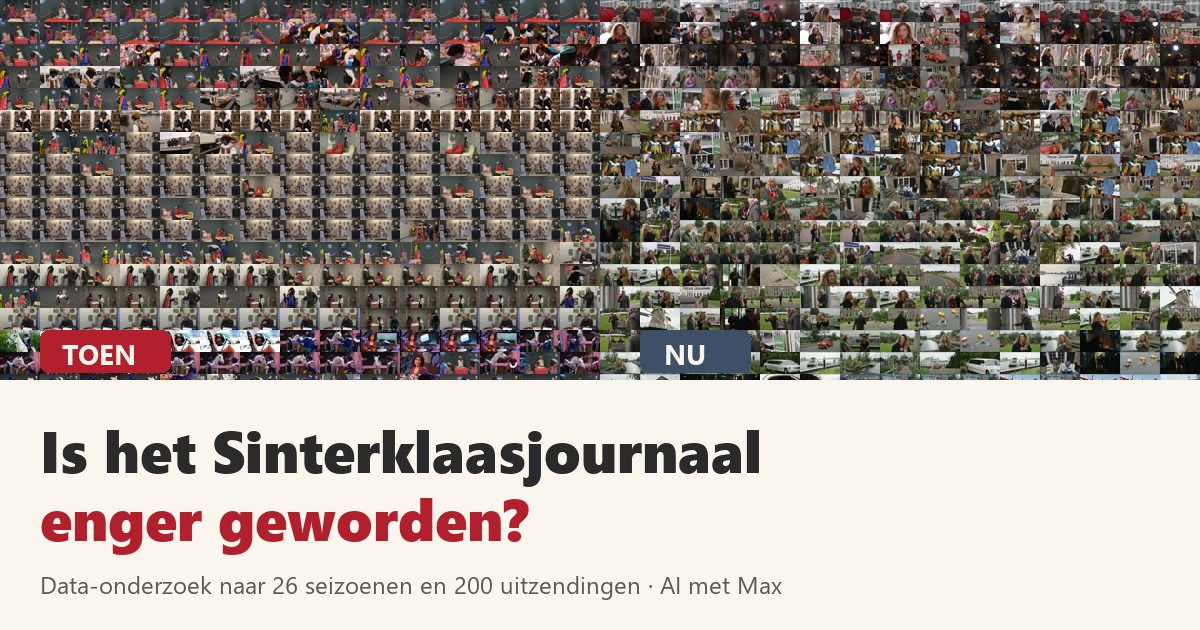
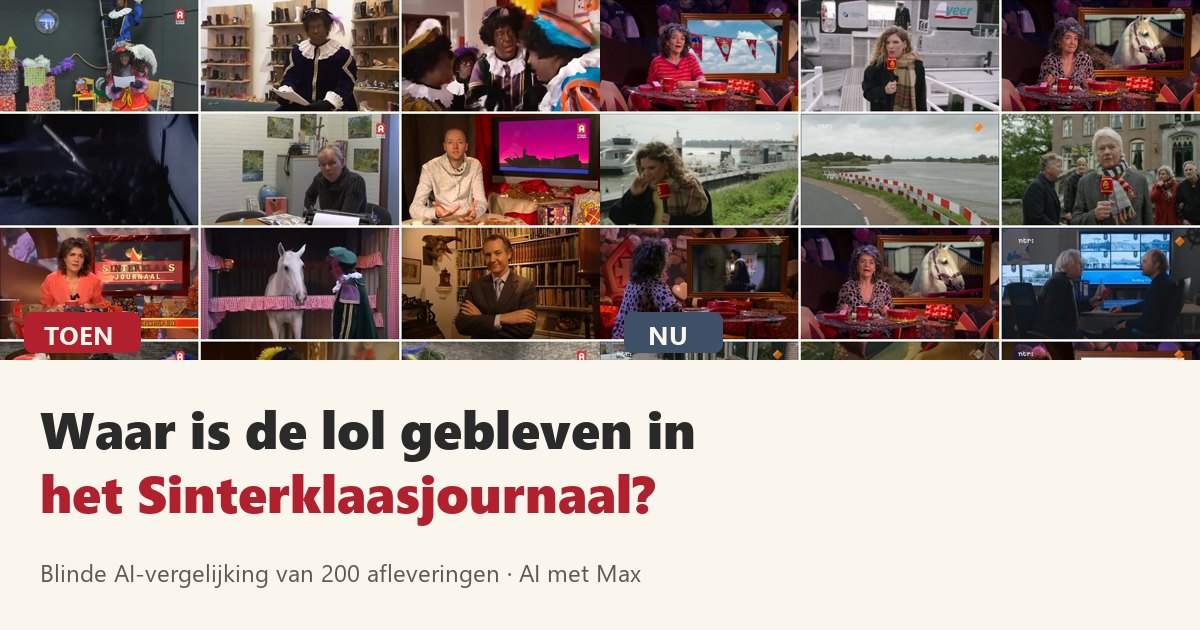
Sinterklaasjournaal: definitieve versie, kop "Waar is de lol gebleven?"
Blinde vergelijking met twee modellen (Haiku en DeepSeek, 2.360 oordelen),
2026 als lopend seizoen, beeldanalyse op elke seconde met willekeurige
steekproef, bijgewerkte methodepagina en nieuwe deelafbeelding.

diff --git a/src/app/onderzoek/sinterklaasjournaal/article-html.ts b/src/app/onderzoek/sinterklaasjournaal/article-html.ts
@@ -1,2 +1,2 @@
 // Generated from the article build. Edit the source, not this file.
-export const ARTICLE_HTML = "<div class=\"col sj-head\">\n  <div class=\"letters\" aria-hidden=\"true\"><span>S</span><span>?</span></div>\n  <p class=\"kicker\">Data-onderzoek · Sinterklaasjournaal 2013-2026</p>\n  <h1>Is het Sinterklaasjournaal enger geworden?</h1>\n  <p class=\"dek\">Ik liet AI 200 afleveringen blind met elkaar vergelijken, zonder dat het wist uit welk jaar ze kwamen. De uitkomst: ja. Vooral vorig jaar was het programma enger en minder luchtig dan alles daarvoor.</p>\n  <p class=\"byline\">Max van den Broek · november 2026 · leestijd 7 minuten</p>\n</div>\n\n<div class=\"wide pair hook\">\n  <figure><div class=\"era toen\">Toen · 2009</div><img src=\"/onderzoek/sinterklaasjournaal/gifs/2009-quiz-dakpan.gif\" alt=\"Pieten doen een quiz: met welke pan kun je geen ei bakken? Met een dakpan (2009)\" width=\"440\" height=\"334\"><figcaption>Aflevering 17 van 2009 opent met een pietenquiz.</figcaption></figure>\n  <figure><div class=\"era nu\">Nu · 2024</div><img src=\"/onderzoek/sinterklaasjournaal/gifs/2024-ligt-stil.gif\" alt=\"Einde van aflevering 2 in 2024: de stoomboot ligt weer stil voor een brug\" width=\"440\" height=\"334\"><figcaption>Aflevering 2 van 2024 eindigt, net als aflevering 1, met een stilliggende stoomboot.</figcaption></figure>\n</div>\n\n<div class=\"sj-main\">\n<section class=\"col\">\n  <p class=\"note\">De fragmenten van vóór 2019 zijn gemaakt toen pieten nog zwart geschminkt waren. Ze staan hier als historisch beeldmateriaal.</p>\n\n  <p>Dit jaar keek ik voor het eerst sinds mijn kindertijd weer naar het Sinterklaasjournaal. Ik schrok ervan. Het voelde veel spannender en negatiever dan ik me herinnerde. Maar toen het programma in 2001 begon was ik zelf nog een kind, dus misschien herinner ik het me gewoon niet goed.</p>\n  <p>Ik ben niet de enige met dat gevoel. In 2024 kreeg de NTR klachten over een aflevering waarin Sinterklaas met een ambulance naar het ziekenhuis ging. In 2025 schreef een vader op LinkedIn dat een aflevering over een noodpakket \"over angst zaaien\" ging. Iemand die het echt had uitgezocht kon ik niet vinden. Dus deed ik dat zelf.</p>\n\n  <div class=\"answer\">\n    <h3>Het korte antwoord</h3>\n    <ul>\n      <li><strong>Het programma is enger en minder luchtig geworden.</strong> Wie twee afleveringen uit verschillende jaren blind naast elkaar legt, wijst de nieuwere vaker aan als de engste. 2025 springt er het meest uit.</li>\n      <li><strong>Problemen blijven langer hangen.</strong> Een probleem in de verhaallijn stond tot 2019 gemiddeld 3,6 tot 5,6 dagen open, sinds 2020 6 tot 9 dagen.</li>\n      <li><strong>In 2025 leek het verhaal op het echte nieuws.</strong> Militairen, een bom in de grond en noodpakketten, een week nadat de overheid haar campagne voor noodpakketten startte.</li>\n      <li><strong>Het is geen rechte lijn.</strong> Ook vroeger waren er heftige jaren, en 2020 was juist het luchtigste seizoen van allemaal.</li>\n    </ul>\n  </div>\n</section>\n\n<section class=\"col\">\n  <h2>Welke van de twee is enger?</h2>\n  <p>Stel dat je iemand twee afleveringen laat lezen zonder te zeggen uit welk jaar ze komen, en dan vraagt: welke is enger? Dat is wat ik deed, alleen was de lezer een AI-model (Claude Haiku) en deed het dit 334 keer.</p>\n  <p>Ik gebruikte de ondertitels van 200 gewone afleveringen uit 2013 tot nu, teruggevonden via het internetarchief. De seizoenen 2016, 2018 tot en met 2022 en 2025 zijn compleet. Uit de teksten haalde ik alle jaartallen, datums en namen van presentatoren. Het model kon dus niet weten welke aflevering oud of nieuw was.</p>\n  <p>Het kreeg steeds twee afleveringen uit verschillende jaren, van dezelfde plek in het seizoen. Bij elk paar stelde ik drie vragen. Welke is enger voor een kind van vijf? Welke is luchtiger? Na welke gaat een kind ongeruster naar bed? Elk paar is twee keer beoordeeld, de tweede keer in omgekeerde volgorde.</p>\n</section>\n\n<figure class=\"wide\">\n  <div class=\"chart\" id=\"c-bt\">\n    <h4>Hoe vaak wordt een aflevering uit dit jaar aangewezen?</h4>\n    <p class=\"sub\">Per vraag de kans dat een aflevering uit dat jaar het wint van een gemiddelde aflevering. Op de stippellijn (50 procent) is een jaar precies gemiddeld, daarboven wordt het vaker aangewezen. De verticale streepjes geven de onzekerheid aan. 2023 en 2024 ontbreken: daarvan zijn alleen de eerste twee afleveringen te vinden.</p>\n    <div class=\"mini3\" id=\"c-bt-panels\"></div>\n  </div>\n  <figcaption>334 blinde oordelen van Claude Haiku over 167 paren afleveringen uit 2013-2026. 2026 telt zeven afleveringen, dat seizoen loopt nog.</figcaption>\n</figure>\n\n<section class=\"col\">\n  <p>2025 springt eruit. Een aflevering uit dat jaar heeft 75 procent kans om als enger te worden aangewezen dan een gemiddelde aflevering. Bij de vraag welke luchtiger is, is die kans maar 20 procent. Bij de vraag na welke aflevering een kind ongeruster naar bed gaat 82 procent. Over de hele periode is de trend bij alle drie de vragen statistisch significant.</p>\n  <p>Het is geen gestage klim. Ook 2022 scoorde hoog op eng, en 2020 was juist opvallend luchtig. Het lopende seizoen lijkt tot nu toe minder eng dan 2025, maar ook minder luchtig dan de jaren tot en met 2022.</p>\n</section>\n\n<div class=\"wide pair\">\n  <figure><div class=\"era toen\">Toen · 2009</div><img src=\"/onderzoek/sinterklaasjournaal/gifs/2009-dokter-pleister.gif\" alt=\"Een piet bij de dokter krijgt een pleister op zijn strooizak tegen verstrooidheid (2009)\" loading=\"lazy\" width=\"440\" height=\"334\"><figcaption>Piet heeft \"verstrooidheid\". De dokter plakt een pleister op zijn strooizak.</figcaption></figure>\n  <figure><div class=\"era nu\">Nu · 2023</div><img src=\"/onderzoek/sinterklaasjournaal/gifs/2023-grote-boek-ramp.gif\" alt=\"Pieten ontdekken dat ze het Grote Boek vergeten zijn (2023)\" loading=\"lazy\" width=\"440\" height=\"334\"><figcaption>\"Het is gewoon een ramp als Sinterklaas zijn grote boek niet heeft.\" (2023)</figcaption></figure>\n</div>\n\n<section class=\"col\">\n  <h2>2025: militairen, een bom en noodpakketten</h2>\n  <p>Waarom springt 2025 er zo uit? Wie de ondertitels leest, ziet een verhaallijn die sterk lijkt op het nieuws voor volwassenen van dat najaar.</p>\n\n  <ol class=\"timeline\">\n    <li><span class=\"d\">3 november</span>De overheid start de campagne \"Denk vooruit\": iedereen wordt gevraagd een noodpakket voor 72 uur in huis te hebben.</li>\n    <li><span class=\"d\">10 november</span>Eerste aflevering. Er zouden militairen in het Grote Pietenhuis komen: \"Het schijnt dat ze er een kazerne van gaan maken.\"</li>\n    <li><span class=\"d\">11 november</span>De militairen graven naar een oude bom. \"Levensgevaarlijk.\" Kinderen kunnen op de site een noodpakket bestellen.</li>\n    <li><span class=\"d\">13 november</span>\"Bij het Grote Pietenhuis ontploft morgen een bom.\"</li>\n    <li><span class=\"d\">24 november</span>De Hoofdpiet: \"Zoals jullie allemaal hebben kunnen zien is de situatie in Nederland een noodsituatie geworden.\"</li>\n    <li><span class=\"d\">25 november</span>De pieten bezorgen de noodpakketten. Dezelfde dag begint de overheid haar brochure over noodsituaties huis aan huis te bezorgen.</li>\n  </ol>\n\n  <div class=\"tt\" role=\"note\"><span class=\"w\">Ja, het gaat om een bom. Nou, Merel, dat is dus geen goed nieuws voor Sinterklaas. Levensgevaarlijk.</span><small>888 · Het Sinterklaasjournaal, 11 november 2025</small></div>\n\n  <p>Een volwassene herkent hierin het nieuws. Een kind van vijf hoort dat er een bom ligt bij het huis van Sinterklaas. Of de makers die gelijkenis zo bedoeld hebben, weet ik niet.</p>\n  <p>Kinderen moesten in 2025 ook veel vaker zelf in actie komen. In ruim de helft van de afleveringen werden ze opgeroepen te helpen, bijvoorbeeld door een noodpakket te bestellen. In de jaren daarvoor was dat hooguit een kwart van de afleveringen. Dit is een verkennende telling: ik had haar niet vooraf als toets vastgelegd.</p>\n</section>\n\n<section class=\"col\">\n  <h2>Problemen blijven langer hangen</h2>\n  <p>Niet alleen 2025 is anders. Ik liet AI ook elk seizoen op volgorde lezen, zoals een kijker het ziet, en een logboek bijhouden van elk probleem in het verhaal: wanneer het begint, wanneer het is opgelost en hoe erg het is. Dat gebeurde per seizoen twee keer, los van elkaar. Waar de intocht is of welke route de boot vaart, telde niet als probleem.</p>\n</section>\n\n<figure class=\"wide\">\n  <div class=\"chart\" id=\"c-days\">\n    <h4>Hoeveel dagen blijft een probleem gemiddeld openstaan?</h4>\n    <p class=\"sub\">Per seizoen. Ergere problemen tellen zwaarder mee. Lichtere balken: van dat seizoen is maar een deel van de afleveringen gevonden.</p>\n  </div>\n  <figcaption>Gemiddelde van twee onafhankelijke probleemlogboeken per seizoen, gemaakt door Claude Haiku op basis van de ondertitels. 2026 ontbreekt omdat het seizoen nog loopt.</figcaption>\n</figure>\n\n<section class=\"col\">\n  <p>Tot 2019 stond een probleem gemiddeld 3,6 tot 5,6 dagen open. Sinds 2020 is dat 6 tot 9 dagen, met 2025 als langste. De twee logboeken kwamen hierin goed overeen. Ook eindigde in 2025 bijna elke aflevering (92 procent) op een cliffhanger.</p>\n</section>\n\n<div class=\"wide pair\">\n  <figure><div class=\"era toen\">Toen · 2004</div><img src=\"/onderzoek/sinterklaasjournaal/gifs/2004-zingen-springen.gif\" alt=\"Het hele Pietenhuis zingt 'En we zingen en we springen' (2004)\" loading=\"lazy\" width=\"440\" height=\"335\"><figcaption>3 december 2004: alles is opgelost en het hele Pietenhuis zingt.</figcaption></figure>\n  <figure><div class=\"era nu\">Nu · 2024</div><img src=\"/onderzoek/sinterklaasjournaal/gifs/2024-geen-brugwachter.gif\" alt=\"Einde van aflevering 1 in 2024: de stoomboot ligt stil voor een brug zonder brugwachter\" loading=\"lazy\" width=\"440\" height=\"334\"><figcaption>Het einde van aflevering 1 in 2024: de stoomboot ligt stil voor een brug zonder brugwachter.</figcaption></figure>\n</div>\n\n<section class=\"col\">\n  <h2>Donkerder beeld, minder liedjes</h2>\n  <p>Hieronder twaalf beelden uit een aflevering van 2009 en twaalf uit een aflevering van 2024. Ze zijn gelijk verdeeld over de uitzending en dus niet door mij uitgezocht. In 2009: rode gordijnen, theaterdecors en groepen pieten. In 2024: een verkeerscentrale, grijze straten en schemerige kamers.</p>\n</section>\n\n<div class=\"wide sheets\">\n  <figure style=\"margin:0\"><div class=\"era toen\">Toen · 2009, aflevering 17</div><img src=\"/onderzoek/sinterklaasjournaal/img/pair-2009-vs-2024-a.jpg\" alt=\"Twaalf beelden uit aflevering 17 van 2009: rode gordijnen, pieten, een dokter\" loading=\"lazy\" width=\"968\" height=\"732\"></figure>\n  <figure style=\"margin:0\"><div class=\"era nu\">Nu · 2024, aflevering 2</div><img src=\"/onderzoek/sinterklaasjournaal/img/pair-2009-vs-2024-b.jpg\" alt=\"Twaalf beelden uit aflevering 2 van 2024: verkeerscentrale, straten, verslaggevers\" loading=\"lazy\" width=\"968\" height=\"732\"></figure>\n</div>\n\n<section class=\"col\">\n  <p>Dit is één voorbeeld. Over vier afleveringen van toen en vier van nu is het verschil kleiner, maar het wijst dezelfde kant op: het beeld is nu gemiddeld 14 procent donkerder. Er wordt ook minder gezongen. Liedjes vulden in 2016 ruim 3 procent van de zendtijd, nu 1 procent.</p>\n</section>\n\n<div class=\"wide pair\">\n  <figure><div class=\"era toen\">Toen · 2018</div><img src=\"/onderzoek/sinterklaasjournaal/gifs/2018-superpiet.gif\" alt=\"Superpiet zingt een Superman-parodie (2018)\" loading=\"lazy\" width=\"440\" height=\"334\"><figcaption>Superpiet zingt haar eigen tune (2018).</figcaption></figure>\n  <figure><div class=\"era nu\">Nu · 2024</div><img src=\"/onderzoek/sinterklaasjournaal/gifs/2024-verkeerscentrale.gif\" alt=\"Verslaggever in de verkeerscentrale waar alle bruggen worden bediend (2024)\" loading=\"lazy\" width=\"440\" height=\"334\"><figcaption>Een verslaggever in de centrale waar alle bruggen van Nederland worden bediend.</figcaption></figure>\n</div>\n\n<section class=\"col\">\n  <h2>Wat niet veranderde</h2>\n  <p>Ik keek ook naar de verhaallijnen van alle 26 seizoenen sinds 2001, via de samenvattingen op Wikipedia. Daarin zie ik geen duidelijke trend in hoe erg of hoe realistisch de problemen zijn. Heftige jaren waren er altijd. In 2003 werd een meisje aangereden door een piet. In 2019 verdwenen het paard van Sinterklaas en Paardenpiet spoorloos. In 2024 moest Sinterklaas met de ambulance naar het ziekenhuis.</p>\n  <p>Het verschil zit dus minder in hoe erg de problemen op papier zijn, en meer in hoe ze gebracht worden: minder luchtig, langer open en in 2025 dicht bij het echte nieuws.</p>\n\n  <h2>Wat betekent dit?</h2>\n  <p>Het gevoel dat het Sinterklaasjournaal enger is geworden klopt, en is niet alleen nostalgie. In een blinde vergelijking worden nieuwere afleveringen vaker als enger aangewezen. Vooral 2025 was een uitschieter, met een verhaal over militairen, een bom en noodpakketten. Het lopende seizoen lijkt tot nu toe minder eng.</p>\n  <p>Waarom het programma veranderde, kan ik uit deze data niet halen. Bedenker en scenarioschrijver Ajé Boschhuizen is er al vanaf het begin bij. Wel veranderde er veel rond het programma: presentatrice Dieuwertje Blok overleed in maart 2025, Merel Westrik nam het over, en in 2026 nam Gijs Naber de rol van Sinterklaas over van Stefan de Walle.</p>\n  <p>Ook goed om te weten: een AI-model is geen kind van vijf. Het leest wat er gezegd wordt. Hoe muziek, licht en camerawerk aankomen, zit niet in deze cijfers.</p>\n  <p>Voor ouders komt het hierop neer: het spannende deel duurt nu langer dan vroeger, en in 2025 leek het op het echte nieuws. Een reden om mee te kijken.</p>\n</section>\n\n<section class=\"col method\">\n  <h2>Zo heb ik het onderzocht</h2>\n  <p>Dit onderzoek deed ik met AI-tools zoals Claude (Anthropic) en ElevenLabs. Het analyseplan legde ik vooraf vast. De <a href=\"/onderzoek/sinterklaasjournaal/methode\">uitgebreide methode en alle data</a> staan op een aparte pagina.</p>\n  <ol>\n    <li><strong>Blind.</strong> Jaartallen, datums en presentatorennamen zijn uit alle teksten gehaald voordat de AI ze las.</li>\n    <li><strong>Paarsgewijs.</strong> 334 oordelen over 167 paren afleveringen van dezelfde plek in het seizoen, elk paar in beide volgordes, gecombineerd met een Bradley-Terry-model. In 79 tot 87 procent van de paren gaf de beoordelaar in beide volgordes hetzelfde antwoord.</li>\n    <li><strong>Logboeken.</strong> Per seizoen twee onafhankelijke probleemlogboeken. Over de duur van problemen waren ze het goed eens (correlatie 0,84).</li>\n    <li><strong>Wikipedia.</strong> Alle 26 seizoenssamenvattingen, twee keer gecodeerd op hoe erg en hoe realistisch de problemen zijn.</li>\n  </ol>\n  <p><strong>Beperkingen.</strong> Van 2023 en 2024 zijn alleen de eerste twee afleveringen te vinden, en van vóór 2013 bijna niets. Achtergrondmuziek wilde ik ook meten, maar met de beschikbare opnames lukte dat niet betrouwbaar. En de AI-beoordelaars lezen alleen tekst: ze zien en horen de uitzending niet.</p>\n</section>\n</div>\n\n<div class=\"col sj-foot\">\n  <p>Beeldfragmenten: NTR / Het Sinterklaasjournaal, gebruikt als citaat voor deze analyse.</p>\n  <ul>\n    <li><a href=\"https://nl.wikipedia.org/wiki/Het_Sinterklaasjournaal\" target=\"_blank\" rel=\"noopener\">Wikipedia: Het Sinterklaasjournaal</a> en de seizoenspagina's per jaar</li>\n    <li><a href=\"https://www.rijksoverheid.nl/actueel/nieuws/2025/11/03/overheid-start-campagne-denk-vooruit-voorbereiden-op-noodsituatie-steeds-belangrijker\" target=\"_blank\" rel=\"noopener\">Rijksoverheid: Overheid start campagne Denk vooruit (3 november 2025)</a></li>\n    <li><a href=\"https://nos.nl/l/2546112\" target=\"_blank\" rel=\"noopener\">NOS: Verontruste ouders krijgen persoonlijke mail van Sinterklaasjournaal (2024)</a></li>\n    <li><a href=\"https://www.omroepbrabant.nl/nieuws/4788177/vader-uit-kritiek-op-sinterklaasjournaal-dit-gaat-over-angst-zaaien\" target=\"_blank\" rel=\"noopener\">Omroep Brabant: Vader uit kritiek op Sinterklaasjournaal (2025)</a></li>\n    <li><a href=\"https://nos.nl/l/2589978\" target=\"_blank\" rel=\"noopener\">NOS: 25 jaar Sinterklaasjournaal (2025)</a></li>\n  </ul>\n</div>";
+export const ARTICLE_HTML = "<div class=\"col sj-head\">\n  <div class=\"letters\" aria-hidden=\"true\"><span>S</span><span>?</span></div>\n  <p class=\"kicker\">Data-onderzoek · Sinterklaasjournaal 2013-2026</p>\n  <h1>Waar is de lol gebleven in het Sinterklaasjournaal?</h1>\n  <p class=\"dek\">Ik liet twee AI-modellen 200 afleveringen blind met elkaar vergelijken, zonder dat ze wisten uit welk jaar die kwamen. In 2022, 2025 en dit jaar was het programma duidelijk minder luchtig dan in alle jaren daarvoor. Vorig jaar was het ook het engst. Dit jaar is het tot nu toe minder eng, maar de luchtigheid is niet terug.</p>\n  <p class=\"byline\">Max van den Broek · november 2026 · leestijd 7 minuten</p>\n</div>\n\n<div class=\"wide pair hook\">\n  <figure><div class=\"era toen\">Toen · 2009</div><img src=\"/onderzoek/sinterklaasjournaal/gifs/2009-quiz-dakpan.gif\" alt=\"Pieten doen een quiz: met welke pan kun je geen ei bakken? Met een dakpan (2009)\" width=\"440\" height=\"334\"><figcaption>Aflevering 17 van 2009 opent met een pietenquiz.</figcaption></figure>\n  <figure><div class=\"era nu\">Nu · 2024</div><img src=\"/onderzoek/sinterklaasjournaal/gifs/2024-ligt-stil.gif\" alt=\"Einde van aflevering 2 in 2024: de stoomboot ligt weer stil voor een brug\" width=\"440\" height=\"334\"><figcaption>Aflevering 2 van 2024 eindigt, net als aflevering 1, met een stilliggende stoomboot.</figcaption></figure>\n</div>\n\n<div class=\"sj-main\">\n<section class=\"col\">\n  <p class=\"note\">De fragmenten van vóór 2019 zijn gemaakt toen pieten nog zwart geschminkt waren. Ze staan hier als historisch beeldmateriaal.</p>\n\n  <p>Dit jaar keek ik voor het eerst sinds mijn kindertijd weer naar het Sinterklaasjournaal. Ik schrok ervan. Het voelde veel spannender en negatiever dan ik me herinnerde. Maar toen het programma in 2001 begon was ik zelf nog een kind, dus misschien herinner ik het me gewoon niet goed.</p>\n  <p>Ik ben niet de enige met dat gevoel. In 2024 kreeg de NTR klachten over een aflevering waarin Sinterklaas met een ambulance naar het ziekenhuis ging. In 2025 schreef een vader op LinkedIn dat een aflevering over een noodpakket \"over angst zaaien\" ging. Iemand die het echt had uitgezocht kon ik niet vinden. Dus deed ik dat zelf.</p>\n\n  <div class=\"answer\">\n    <h3>Het korte antwoord</h3>\n    <ul>\n      <li><strong>De luchtigheid is weg.</strong> Tot en met 2021 had een aflevering 49 tot 67 procent kans om als luchtiger te worden aangewezen dan een gemiddelde aflevering. In 2022 was dat 31 procent, in 2025 20 procent en dit jaar tot nu toe 38 procent.</li>\n      <li><strong>2025 was de piek op alles.</strong> Het engst, het minst luchtig en met de meest verontrustende eindes. Het verhaal ging over militairen, een bom in de grond en noodpakketten, een week nadat de overheid haar campagne voor noodpakketten startte.</li>\n      <li><strong>Dit jaar is het minder eng, maar niet luchtiger.</strong> Na de kritiek van vorig jaar scoort 2026 tot nu toe lager op eng (55 procent, tegen 79 in 2025). De luchtigheid is niet terug. Dit gaat om zeven afleveringen, het seizoen loopt nog.</li>\n      <li><strong>Problemen blijven langer hangen.</strong> Een probleem in de verhaallijn stond tot 2019 gemiddeld 3,6 tot 5,6 dagen open, sinds 2020 6 tot 9 dagen.</li>\n      <li><strong>Op papier zijn de problemen niet erger.</strong> In de samenvattingen van 26 seizoenen zie ik geen duidelijke trend in hoe erg de problemen zijn. Het verschil zit in hoe ze gebracht worden.</li>\n    </ul>\n  </div>\n</section>\n\n<section class=\"col\">\n  <h2>Welke van de twee is luchtiger?</h2>\n  <p>Stel dat je iemand twee afleveringen laat lezen zonder te zeggen uit welk jaar ze komen, en dan vraagt: welke is luchtiger? Dat is wat ik deed, alleen waren de lezers twee verschillende AI-modellen (Claude Haiku en DeepSeek), en deden ze het ruim 2.300 keer.</p>\n  <p>Ik gebruikte de ondertitels van 200 gewone afleveringen uit 2013 tot nu, teruggevonden via het internetarchief. De seizoenen 2016, 2018 tot en met 2022 en 2025 zijn compleet. Uit de teksten haalde ik alle jaartallen, datums en namen van presentatoren. De modellen konden dus niet weten welke aflevering oud of nieuw was.</p>\n  <p>Ze kregen steeds twee afleveringen uit verschillende jaren, van dezelfde plek in het seizoen. Bij elk paar stelde ik drie vragen. Welke is luchtiger? Welke is enger voor een kind van vijf? Na welke gaat een kind ongeruster naar bed? Elk paar is twee keer beoordeeld, de tweede keer in omgekeerde volgorde.</p>\n</section>\n\n<figure class=\"wide\">\n  <div class=\"chart\" id=\"c-bt\">\n    <h4>Sinds 2022 minder luchtig, in 2025 het engst</h4>\n    <p class=\"sub\">Per vraag de kans dat een aflevering uit dat jaar het wint van een gemiddelde aflevering. Op de stippellijn (50 procent) is een jaar precies gemiddeld, daarboven wordt het vaker aangewezen als luchtiger, enger of met een ongeruster einde. De verticale streepjes geven de onzekerheid aan. 2023 en 2024 ontbreken: daarvan zijn alleen de eerste twee afleveringen te vinden.</p>\n    <div class=\"mini3\" id=\"c-bt-panels\"></div>\n  </div>\n  <figcaption>2.360 blinde oordelen van Claude Haiku en DeepSeek over 1.013 paren afleveringen uit 2013-2026. 2026 telt zeven afleveringen, dat seizoen loopt nog.</figcaption>\n</figure>\n\n<section class=\"col\">\n  <p>Het duidelijkste verschil zit in de luchtigheid. Elk seizoen tot en met 2021 zit tussen de 49 en 67 procent: 2013 op 67, 2020 op 66, 2021 op 49. Daarna zakt het weg. In 2022 is de kans dat een aflevering als luchtiger wordt aangewezen nog 31 procent, in 2025 20 procent.</p>\n  <p>Bij eng en ongerust is het beeld grilliger. Tot en met 2021 schommelen de jaren rond het gemiddelde of eronder: 33 tot 52 procent bij enger, 34 tot 56 procent bij een ongeruster einde. In 2022 gaat dat naar 69 en 63 procent. 2025 is de piek: 79 procent bij enger en 78 procent bij een ongeruster einde. Over de hele periode is de trend bij alle drie de vragen statistisch significant.</p>\n</section>\n\n<div class=\"wide pair\">\n  <figure><div class=\"era toen\">Toen · 2009</div><img src=\"/onderzoek/sinterklaasjournaal/gifs/2009-dokter-pleister.gif\" alt=\"Een piet bij de dokter krijgt een pleister op zijn strooizak tegen verstrooidheid (2009)\" loading=\"lazy\" width=\"440\" height=\"334\"><figcaption>Piet heeft \"verstrooidheid\". De dokter plakt een pleister op zijn strooizak.</figcaption></figure>\n  <figure><div class=\"era nu\">Nu · 2023</div><img src=\"/onderzoek/sinterklaasjournaal/gifs/2023-grote-boek-ramp.gif\" alt=\"Pieten ontdekken dat ze het Grote Boek vergeten zijn (2023)\" loading=\"lazy\" width=\"440\" height=\"334\"><figcaption>\"Het is gewoon een ramp als Sinterklaas zijn grote boek niet heeft.\" (2023)</figcaption></figure>\n</div>\n\n<section class=\"col\">\n  <h2>2025 was de piek: militairen, een bom en noodpakketten</h2>\n  <p>2025 was op alle drie de vragen het uiterste jaar. Waarom? Wie de ondertitels leest, ziet een verhaallijn die sterk lijkt op het nieuws voor volwassenen van dat najaar.</p>\n\n  <ol class=\"timeline\">\n    <li><span class=\"d\">3 november</span>De overheid start de campagne \"Denk vooruit\": iedereen wordt gevraagd een noodpakket voor 72 uur in huis te hebben.</li>\n    <li><span class=\"d\">10 november</span>Eerste aflevering. Er zouden militairen in het Grote Pietenhuis komen: \"Het schijnt dat ze er een kazerne van gaan maken.\"</li>\n    <li><span class=\"d\">11 november</span>De militairen graven naar een oude bom. \"Levensgevaarlijk.\" Kinderen kunnen op de site een noodpakket bestellen.</li>\n    <li><span class=\"d\">13 november</span>\"Bij het Grote Pietenhuis ontploft morgen een bom.\"</li>\n    <li><span class=\"d\">24 november</span>De Hoofdpiet: \"Zoals jullie allemaal hebben kunnen zien is de situatie in Nederland een noodsituatie geworden.\"</li>\n    <li><span class=\"d\">25 november</span>De pieten bezorgen de noodpakketten. Dezelfde dag begint de overheid haar brochure over noodsituaties huis aan huis te bezorgen.</li>\n  </ol>\n\n  <div class=\"tt\" role=\"note\"><span class=\"w\">Ja, het gaat om een bom. Nou, Merel, dat is dus geen goed nieuws voor Sinterklaas. Levensgevaarlijk.</span><small>888 · Het Sinterklaasjournaal, 11 november 2025</small></div>\n\n  <p>Een volwassene herkent hierin het nieuws. Een kind van vijf hoort dat er een bom ligt bij het huis van Sinterklaas. Of de makers die gelijkenis zo bedoeld hebben, weet ik niet.</p>\n  <p>Kinderen moesten in 2025 ook veel vaker zelf in actie komen. In ruim de helft van de afleveringen werden ze opgeroepen te helpen, bijvoorbeeld door een noodpakket te bestellen. In de jaren daarvoor was dat hooguit een kwart van de afleveringen. Dit is een verkennende telling: ik had haar niet vooraf als toets vastgelegd.</p>\n</section>\n\n<section class=\"col\">\n  <h2>2026: minder eng, maar de lol is niet terug</h2>\n  <p>Na de kritiek van vorig jaar ziet het lopende seizoen er anders uit. Een aflevering uit 2026 heeft 55 procent kans om als enger te worden aangewezen, tegen 79 procent in 2025. Bij een ongeruster einde is het 57 procent, tegen 78.</p>\n  <p>De luchtigheid komt minder ver terug. Met 38 procent scoort 2026 hoger dan 2025, maar lager dan elk seizoen tot en met 2021. Het programma lijkt dus minder eng, maar nog niet luchtiger. Of dat een bewuste keuze is, weet ik niet. En het gaat om zeven afleveringen van een seizoen dat nog loopt: de onzekerheid is groot en het beeld kan nog verschuiven.</p>\n</section>\n\n<section class=\"col\">\n  <h2>Problemen blijven langer hangen</h2>\n  <p>Minder luchtig is niet het enige verschil. Ik liet AI ook elk seizoen op volgorde lezen, zoals een kijker het ziet, en een logboek bijhouden van elk probleem in het verhaal: wanneer het begint, wanneer het is opgelost en hoe erg het is. Dat gebeurde per seizoen twee keer, los van elkaar. Waar de intocht is of welke route de boot vaart, telde niet als probleem.</p>\n</section>\n\n<figure class=\"wide\">\n  <div class=\"chart\" id=\"c-days\">\n    <h4>Hoeveel dagen blijft een probleem gemiddeld openstaan?</h4>\n    <p class=\"sub\">Per seizoen. Ergere problemen tellen zwaarder mee. Lichtere balken: van dat seizoen is maar een deel van de afleveringen gevonden.</p>\n  </div>\n  <figcaption>Gemiddelde van twee onafhankelijke probleemlogboeken per seizoen, gemaakt door Claude Haiku op basis van de ondertitels. 2026 ontbreekt omdat het seizoen nog loopt.</figcaption>\n</figure>\n\n<section class=\"col\">\n  <p>Tot 2019 stond een probleem gemiddeld 3,6 tot 5,6 dagen open. Sinds 2020 is dat 6 tot 9 dagen, met 2025 als langste. De twee logboeken kwamen hierin goed overeen. Ook eindigde in 2025 bijna elke aflevering (92 procent) op een cliffhanger.</p>\n</section>\n\n<div class=\"wide pair\">\n  <figure><div class=\"era toen\">Toen · 2004</div><img src=\"/onderzoek/sinterklaasjournaal/gifs/2004-zingen-springen.gif\" alt=\"Het hele Pietenhuis zingt 'En we zingen en we springen' (2004)\" loading=\"lazy\" width=\"440\" height=\"335\"><figcaption>3 december 2004: alles is opgelost en het hele Pietenhuis zingt.</figcaption></figure>\n  <figure><div class=\"era nu\">Nu · 2024</div><img src=\"/onderzoek/sinterklaasjournaal/gifs/2024-geen-brugwachter.gif\" alt=\"Einde van aflevering 1 in 2024: de stoomboot ligt stil voor een brug zonder brugwachter\" loading=\"lazy\" width=\"440\" height=\"334\"><figcaption>Het einde van aflevering 1 in 2024: de stoomboot ligt stil voor een brug zonder brugwachter.</figcaption></figure>\n</div>\n\n<section class=\"col\">\n  <h2>Donkerder beeld, minder liedjes</h2>\n  <p>Hieronder twaalf willekeurige beelden uit vier afleveringen van 2009-2018, naast twaalf willekeurige beelden uit vier afleveringen van 2023-2024. De computer koos ze, niet ik. Toen: veel pieten van dichtbij in felle kleuren. Nu: buitenbeelden onder een grijze lucht en schemerige kamers, met de rode studio er tussendoor.</p>\n</section>\n\n<div class=\"wide sheets\">\n  <figure style=\"margin:0\"><div class=\"era toen\">Toen · 2009-2018</div><img src=\"/onderzoek/sinterklaasjournaal/img/random-toen.jpg\" alt=\"Twaalf willekeurige beelden uit afleveringen van 2009-2018: pieten in felle kleuren, studio, stal\" loading=\"lazy\" width=\"968\" height=\"732\"></figure>\n  <figure style=\"margin:0\"><div class=\"era nu\">Nu · 2023-2024</div><img src=\"/onderzoek/sinterklaasjournaal/img/random-nu.jpg\" alt=\"Twaalf willekeurige beelden uit afleveringen van 2023-2024: buitenlocaties, verslaggevers, studio\" loading=\"lazy\" width=\"968\" height=\"732\"></figure>\n</div>\n\n<section class=\"col\">\n  <p>Ook in beeld en geluid is het programma minder uitbundig. De computer mat daarna elke seconde van deze acht afleveringen, ruim 5.000 beelden. Het aandeel rood in beeld daalde van 16 naar 9 procent, de kleurrijkheid met 20 procent, en het beeld werd 12 procent donkerder. Er wordt ook minder gezongen. Liedjes vulden in 2016 ruim 3 procent van de zendtijd, nu 1 procent.</p>\n</section>\n\n<div class=\"wide pair\">\n  <figure><div class=\"era toen\">Toen · 2018</div><img src=\"/onderzoek/sinterklaasjournaal/gifs/2018-superpiet.gif\" alt=\"Superpiet zingt een Superman-parodie (2018)\" loading=\"lazy\" width=\"440\" height=\"334\"><figcaption>Superpiet zingt haar eigen tune (2018).</figcaption></figure>\n  <figure><div class=\"era nu\">Nu · 2024</div><img src=\"/onderzoek/sinterklaasjournaal/gifs/2024-verkeerscentrale.gif\" alt=\"Verslaggever in de verkeerscentrale waar alle bruggen worden bediend (2024)\" loading=\"lazy\" width=\"440\" height=\"334\"><figcaption>Een verslaggever in de centrale waar alle bruggen van Nederland worden bediend.</figcaption></figure>\n</div>\n\n<section class=\"col\">\n  <h2>Wat niet veranderde</h2>\n  <p>Ik keek ook naar de verhaallijnen van alle 26 seizoenen sinds 2001, via de samenvattingen op Wikipedia. Daarin zie ik geen duidelijke trend in hoe erg of hoe realistisch de problemen zijn. Heftige jaren waren er altijd. In 2003 werd een meisje aangereden door een piet. In 2019 verdwenen het paard van Sinterklaas en Paardenpiet spoorloos. In 2024 moest Sinterklaas met de ambulance naar het ziekenhuis.</p>\n  <p>Het verschil zit dus minder in hoe erg de problemen op papier zijn, en meer in hoe ze gebracht worden: minder luchtig, langer open en in 2025 dicht bij het echte nieuws.</p>\n\n  <h2>Wat betekent dit?</h2>\n  <p>Mijn gevoel klopte, maar anders dan ik dacht. Het Sinterklaasjournaal is niet elk jaar enger geworden. Het is vooral zijn luchtigheid kwijtgeraakt. Tot en met 2021 was elk seizoen ongeveer gemiddeld of luchtiger, sinds 2022 geen enkel seizoen meer.</p>\n  <p>2025 was op alles de uitschieter, met een verhaal over militairen, een bom en noodpakketten. Dit jaar is het tot nu toe minder eng en eindigen afleveringen minder verontrustend. De luchtigheid is nog niet terug. Dat is een voorlopig beeld na zeven afleveringen.</p>\n  <p>Waarom het programma veranderde, kan ik uit deze data niet halen. Bedenker en scenarioschrijver Ajé Boschhuizen is er al vanaf het begin bij. Wel veranderde er veel rond het programma: presentatrice Dieuwertje Blok overleed in maart 2025, Merel Westrik nam het over, en in 2026 nam Gijs Naber de rol van Sinterklaas over van Stefan de Walle.</p>\n  <p>Ook goed om te weten: een AI-model is geen kind van vijf. Het leest wat er gezegd wordt. Hoe muziek, licht en camerawerk aankomen, zit niet in deze cijfers.</p>\n  <p>Voor ouders komt het hierop neer: het programma is minder luchtig dan vroeger, het spannende deel duurt langer, en in 2025 leek het op het echte nieuws. Een reden om mee te kijken.</p>\n</section>\n\n<section class=\"col method\">\n  <h2>Zo heb ik het onderzocht</h2>\n  <p>Dit onderzoek deed ik met AI-tools zoals Claude (Anthropic) en ElevenLabs. Het analyseplan legde ik vooraf vast. De <a href=\"/onderzoek/sinterklaasjournaal/methode\">uitgebreide methode en alle data</a> staan op een aparte pagina.</p>\n  <ol>\n    <li><strong>Blind.</strong> Jaartallen, datums en presentatorennamen zijn uit alle teksten gehaald voordat de AI ze las.</li>\n    <li><strong>Paarsgewijs.</strong> 2.360 oordelen over 1.013 paren afleveringen van dezelfde plek in het seizoen, elk paar in beide volgordes, door twee verschillende AI-modellen, gecombineerd met een Bradley-Terry-model. Op dezelfde paren waren de twee modellen het in 77 tot 83 procent van de gevallen eens over enger, luchtiger en ongeruster einde.</li>\n    <li><strong>Logboeken.</strong> Per seizoen twee onafhankelijke probleemlogboeken. Over de duur van problemen waren ze het goed eens (correlatie 0,84).</li>\n    <li><strong>Wikipedia.</strong> Alle 26 seizoenssamenvattingen, twee keer gecodeerd op hoe erg en hoe realistisch de problemen zijn.</li>\n  </ol>\n  <p><strong>Beperkingen.</strong> Van 2023 en 2024 zijn alleen de eerste twee afleveringen te vinden, en van vóór 2013 bijna niets. Achtergrondmuziek wilde ik ook meten, maar met de beschikbare opnames lukte dat niet betrouwbaar. En de AI-beoordelaars lezen alleen tekst: ze zien en horen de uitzending niet.</p>\n</section>\n</div>\n\n<div class=\"col sj-foot\">\n  <p>Beeldfragmenten: NTR / Het Sinterklaasjournaal, gebruikt als citaat voor deze analyse.</p>\n  <ul>\n    <li><a href=\"https://nl.wikipedia.org/wiki/Het_Sinterklaasjournaal\" target=\"_blank\" rel=\"noopener\">Wikipedia: Het Sinterklaasjournaal</a> en de seizoenspagina's per jaar</li>\n    <li><a href=\"https://www.rijksoverheid.nl/actueel/nieuws/2025/11/03/overheid-start-campagne-denk-vooruit-voorbereiden-op-noodsituatie-steeds-belangrijker\" target=\"_blank\" rel=\"noopener\">Rijksoverheid: Overheid start campagne Denk vooruit (3 november 2025)</a></li>\n    <li><a href=\"https://nos.nl/l/2546112\" target=\"_blank\" rel=\"noopener\">NOS: Verontruste ouders krijgen persoonlijke mail van Sinterklaasjournaal (2024)</a></li>\n    <li><a href=\"https://www.omroepbrabant.nl/nieuws/4788177/vader-uit-kritiek-op-sinterklaasjournaal-dit-gaat-over-angst-zaaien\" target=\"_blank\" rel=\"noopener\">Omroep Brabant: Vader uit kritiek op Sinterklaasjournaal (2025)</a></li>\n    <li><a href=\"https://nos.nl/l/2589978\" target=\"_blank\" rel=\"noopener\">NOS: 25 jaar Sinterklaasjournaal (2025)</a></li>\n  </ul>\n</div>";

diff --git a/src/app/onderzoek/sinterklaasjournaal/methode/page.tsx b/src/app/onderzoek/sinterklaasjournaal/methode/page.tsx
@@ -2,7 +2,7 @@ import type { Metadata } from "next";
 import Link from "next/link";
 
 export const metadata: Metadata = {
-  title: "Methode: is het Sinterklaasjournaal enger geworden?",
+  title: "Methode: waar is de lol gebleven in het Sinterklaasjournaal?",
   description:
     "Hoe ik 200 afleveringen van het Sinterklaasjournaal blind liet vergelijken door AI: vooraf vastgelegd plan, paarsgewijze oordelen, probleemlogboeken, betrouwbaarheid, beperkingen en downloadbare data.",
   alternates: { canonical: "/onderzoek/sinterklaasjournaal/methode" },
@@ -59,7 +59,7 @@ export default function MethodePage() {
       <p className="mt-5 text-lg">
         Dit is de verantwoording bij{" "}
         <Link href={BASE} className="font-medium text-accent underline underline-offset-2">
-          Is het Sinterklaasjournaal enger geworden?
+          Waar is de lol gebleven in het Sinterklaasjournaal?
         </Link>
         . Hier staat welke bronnen ik gebruikte, hoe ik mat, hoe betrouwbaar dat is, wat niet lukte en wat het onderzoek
         niet kan zeggen. De data staan onderaan.
@@ -68,8 +68,9 @@ export default function MethodePage() {
       <H2>In het kort</H2>
       <p>
         Ik heb het Sinterklaasjournaal per seizoen vergeleken, niet per groep jaren. De kern is een blinde
-        paarsgewijze vergelijking: een AI-model (Claude Haiku) las steeds twee afleveringen uit verschillende jaren,
-        zonder jaartallen of namen, en koos welke van de twee enger, luchtiger of verontrustender was. Daarnaast
+        paarsgewijze vergelijking: twee verschillende AI-modellen (Claude Haiku en DeepSeek) lazen steeds twee
+        afleveringen uit verschillende jaren, zonder jaartallen of namen, en kozen welke van de twee enger, luchtiger
+        of verontrustender was. Daarnaast
         maakten AI-agents per seizoen een logboek van alle problemen in het verhaal. Het analyseplan, met hypotheses,
         maten en de ernstschaal, legde ik vast vóór ik de analyses draaide.
       </p>
@@ -98,8 +99,10 @@ export default function MethodePage() {
       <H2>3. Paarsgewijze vergelijking</H2>
       <p>
         Voor elk paar seizoenen met minstens vijf afleveringen koos ik tot vier paren afleveringen die op dezelfde plek
-        in het seizoen stonden (maximaal drie dagen verschil tot 5 december). Dat gaf 167 paren. Elk paar werd twee keer
-        beoordeeld, één keer in elke volgorde, door verschillende Haiku-agents: 334 oordelen. Per paar vier vragen:
+        in het seizoen stonden (maximaal drie dagen verschil tot 5 december). Dat gaf 167 paren, die Claude Haiku in
+        beide volgordes beoordeelde (334 oordelen). Daarna beoordeelde DeepSeek (deepseek-chat) dezelfde 167 paren
+        plus 846 extra paren (maximaal twee dagen verschil, elke aflevering hooguit twee keer per seizoenspaar), ook in
+        beide volgordes: 2.026 oordelen. In totaal 2.360 oordelen over 1.013 paren. Per paar vier vragen:
         welke is enger voor een kind van vijf, welke is luchtiger, na welke gaat een kind ongeruster naar bed, en in
         welke spelen problemen die zowel echt als erg zijn.
       </p>
@@ -111,8 +114,11 @@ export default function MethodePage() {
       <Table
         head={["Controle", "Uitkomst"]}
         rows={[
-          ["Voorkeur voor de eerste of tweede aflevering", "47 tot 53 procent: geen duidelijke voorkeur"],
-          ["Zelfde antwoord in beide volgordes", "79 procent (luchtiger) tot 87 procent (ongeruster einde)"],
+          ["Voorkeur voor eerste of tweede aflevering, Haiku", "47 tot 53 procent: geen duidelijke voorkeur"],
+          ["Voorkeur voor eerste of tweede aflevering, DeepSeek", "kiest vaker de tweede (57 tot 68 procent bij enger, ongeruster einde en echt en erg); valt weg doordat elk paar in beide volgordes is beoordeeld"],
+          ["Zelfde antwoord in beide volgordes, Haiku", "79 procent (luchtiger) tot 87 procent (ongeruster einde)"],
+          ["Zelfde antwoord in beide volgordes, DeepSeek", "75 procent (ongeruster einde) tot 85 procent (luchtiger)"],
+          ["Haiku en DeepSeek eens op dezelfde paren", "83 procent (enger, ongeruster einde), 77 procent (luchtiger), 72 procent (echt en erg)"],
           ["Trend per tien jaar, enger", "duidelijk positief (95%-interval ligt boven nul)"],
           ["Trend per tien jaar, luchtiger", "duidelijk negatief"],
           ["Trend per tien jaar, ongeruster einde", "duidelijk positief"],
@@ -160,7 +166,16 @@ export default function MethodePage() {
         exploratief.
       </p>
 
-      <H2>7. Wat niet lukte</H2>
+      <H2>7. Beeld</H2>
+      <p>
+        Van vier afleveringen uit 2009-2018 en vier uit 2023-2024 analyseerde ik elke seconde, ruim 5.000 beelden:
+        helderheid, verzadiging, warmte (rood min blauw), kleurrijkheid (de maat van Hasler en Süsstrunk) en het
+        aandeel duidelijk rode pixels. De twaalf beelden per periode in het artikel zijn met een vaste willekeurige
+        trekking gekozen. De aflevering uit 2004 (een donkere VHS-opname) en die uit 2017 (met gebarentolk in beeld)
+        tellen hier niet mee. Van na 2024 en van vóór 2009 heb ik geen bruikbare video.
+      </p>
+
+      <H2>8. Wat niet lukte</H2>
       <ul className="mb-4 ml-6 list-disc space-y-2">
         <li>
           Achtergrondmuziek. Ik probeerde drie manieren: een AudioSet-model op de geluidsband, hetzelfde na het
@@ -174,7 +189,7 @@ export default function MethodePage() {
         <li>Een simpel sentimentmodel per zin liet maar een klein verschil zien; dat staat niet in het artikel.</li>
       </ul>
 
-      <H2>8. Beperkingen</H2>
+      <H2>9. Beperkingen</H2>
       <ul className="mb-4 ml-6 list-disc space-y-2">
         <li>2023 en 2024 ontbreken, en van vóór 2013 zijn bijna geen ondertitels te vinden.</li>
         <li>AI-beoordelaars zijn geen kinderen. Ze lezen tekst, zonder beeld, muziek of toon van stemmen.</li>

diff --git a/src/app/onderzoek/sinterklaasjournaal/charts.ts b/src/app/onderzoek/sinterklaasjournaal/charts.ts
@@ -16,7 +16,7 @@ function table(host, head, rows) { const d = document.createElement('details'); 
 
 function btPanels() {
   const host = document.getElementById('c-bt-panels');
-  const Q = [['engst', 'Enger'], ['luchtigst', 'Luchtiger'], ['ongerustste_einde', 'Ongeruster einde']];
+  const Q = [['luchtigst', 'Luchtiger'], ['engst', 'Enger'], ['ongerustste_einde', 'Ongeruster einde']];
   Q.forEach(([key, title]) => {
     const box = document.createElement('div'); box.innerHTML = `<h5>${title}</h5>`; host.appendChild(box);
     const W = 320, H = 236, m = { l: 42, r: 8, t: 16, b: 28 };
@@ -36,7 +36,7 @@ function btPanels() {
       bindTip(dot, `<b>${d.y}${d.y === 2026 ? ' (loopt nog)' : ''}</b>${title}: ${pct(d.p)} kans om te winnen van een gemiddelde aflevering (onzekerheid ${pct(d.lo)} tot ${pct(d.hi)})`);
     });
   });
-  table(document.getElementById('c-bt'), ['Jaar', 'Enger', 'Luchtiger', 'Ongeruster einde'], DATA.bt.engst.map((d, i) => [d.y, pct(d.p), pct(DATA.bt.luchtigst[i].p), pct(DATA.bt.ongerustste_einde[i].p)]));
+  table(document.getElementById('c-bt'), ['Jaar', 'Luchtiger', 'Enger', 'Ongeruster einde'], DATA.bt.engst.map((d, i) => [d.y, pct(DATA.bt.luchtigst[i].p), pct(d.p), pct(DATA.bt.ongerustste_einde[i].p)]));
 }
 
 function days() {

diff --git a/src/app/onderzoek/sinterklaasjournaal/page.tsx b/src/app/onderzoek/sinterklaasjournaal/page.tsx
@@ -8,10 +8,10 @@ import data from "./data.json";
 const alfa = Alfa_Slab_One({ weight: "400", subsets: ["latin"], variable: "--font-alfa" });
 const plex = IBM_Plex_Mono({ weight: ["400", "600"], subsets: ["latin"], variable: "--font-plex-mono" });
 
-const TITLE = "Is het Sinterklaasjournaal enger geworden?";
+const TITLE = "Waar is de lol gebleven in het Sinterklaasjournaal?";
 const DESCRIPTION =
-  "Ik liet AI 200 afleveringen van het Sinterklaasjournaal blind vergelijken. Het programma is enger en minder luchtig geworden, met 2025 als uitschieter: militairen, een bom en noodpakketten.";
-const PUBLISHED = "2026-11-15";
+  "Ik liet twee AI-modellen 200 afleveringen van het Sinterklaasjournaal blind vergelijken. Het programma is duidelijk minder luchtig geworden, 2025 was het engst, en dit jaar is het minder eng maar de luchtigheid is niet terug.";
+const PUBLISHED = "2026-11-16";
 
 export const metadata: Metadata = {
   title: { absolute: `${TITLE} | AI met Max` },
